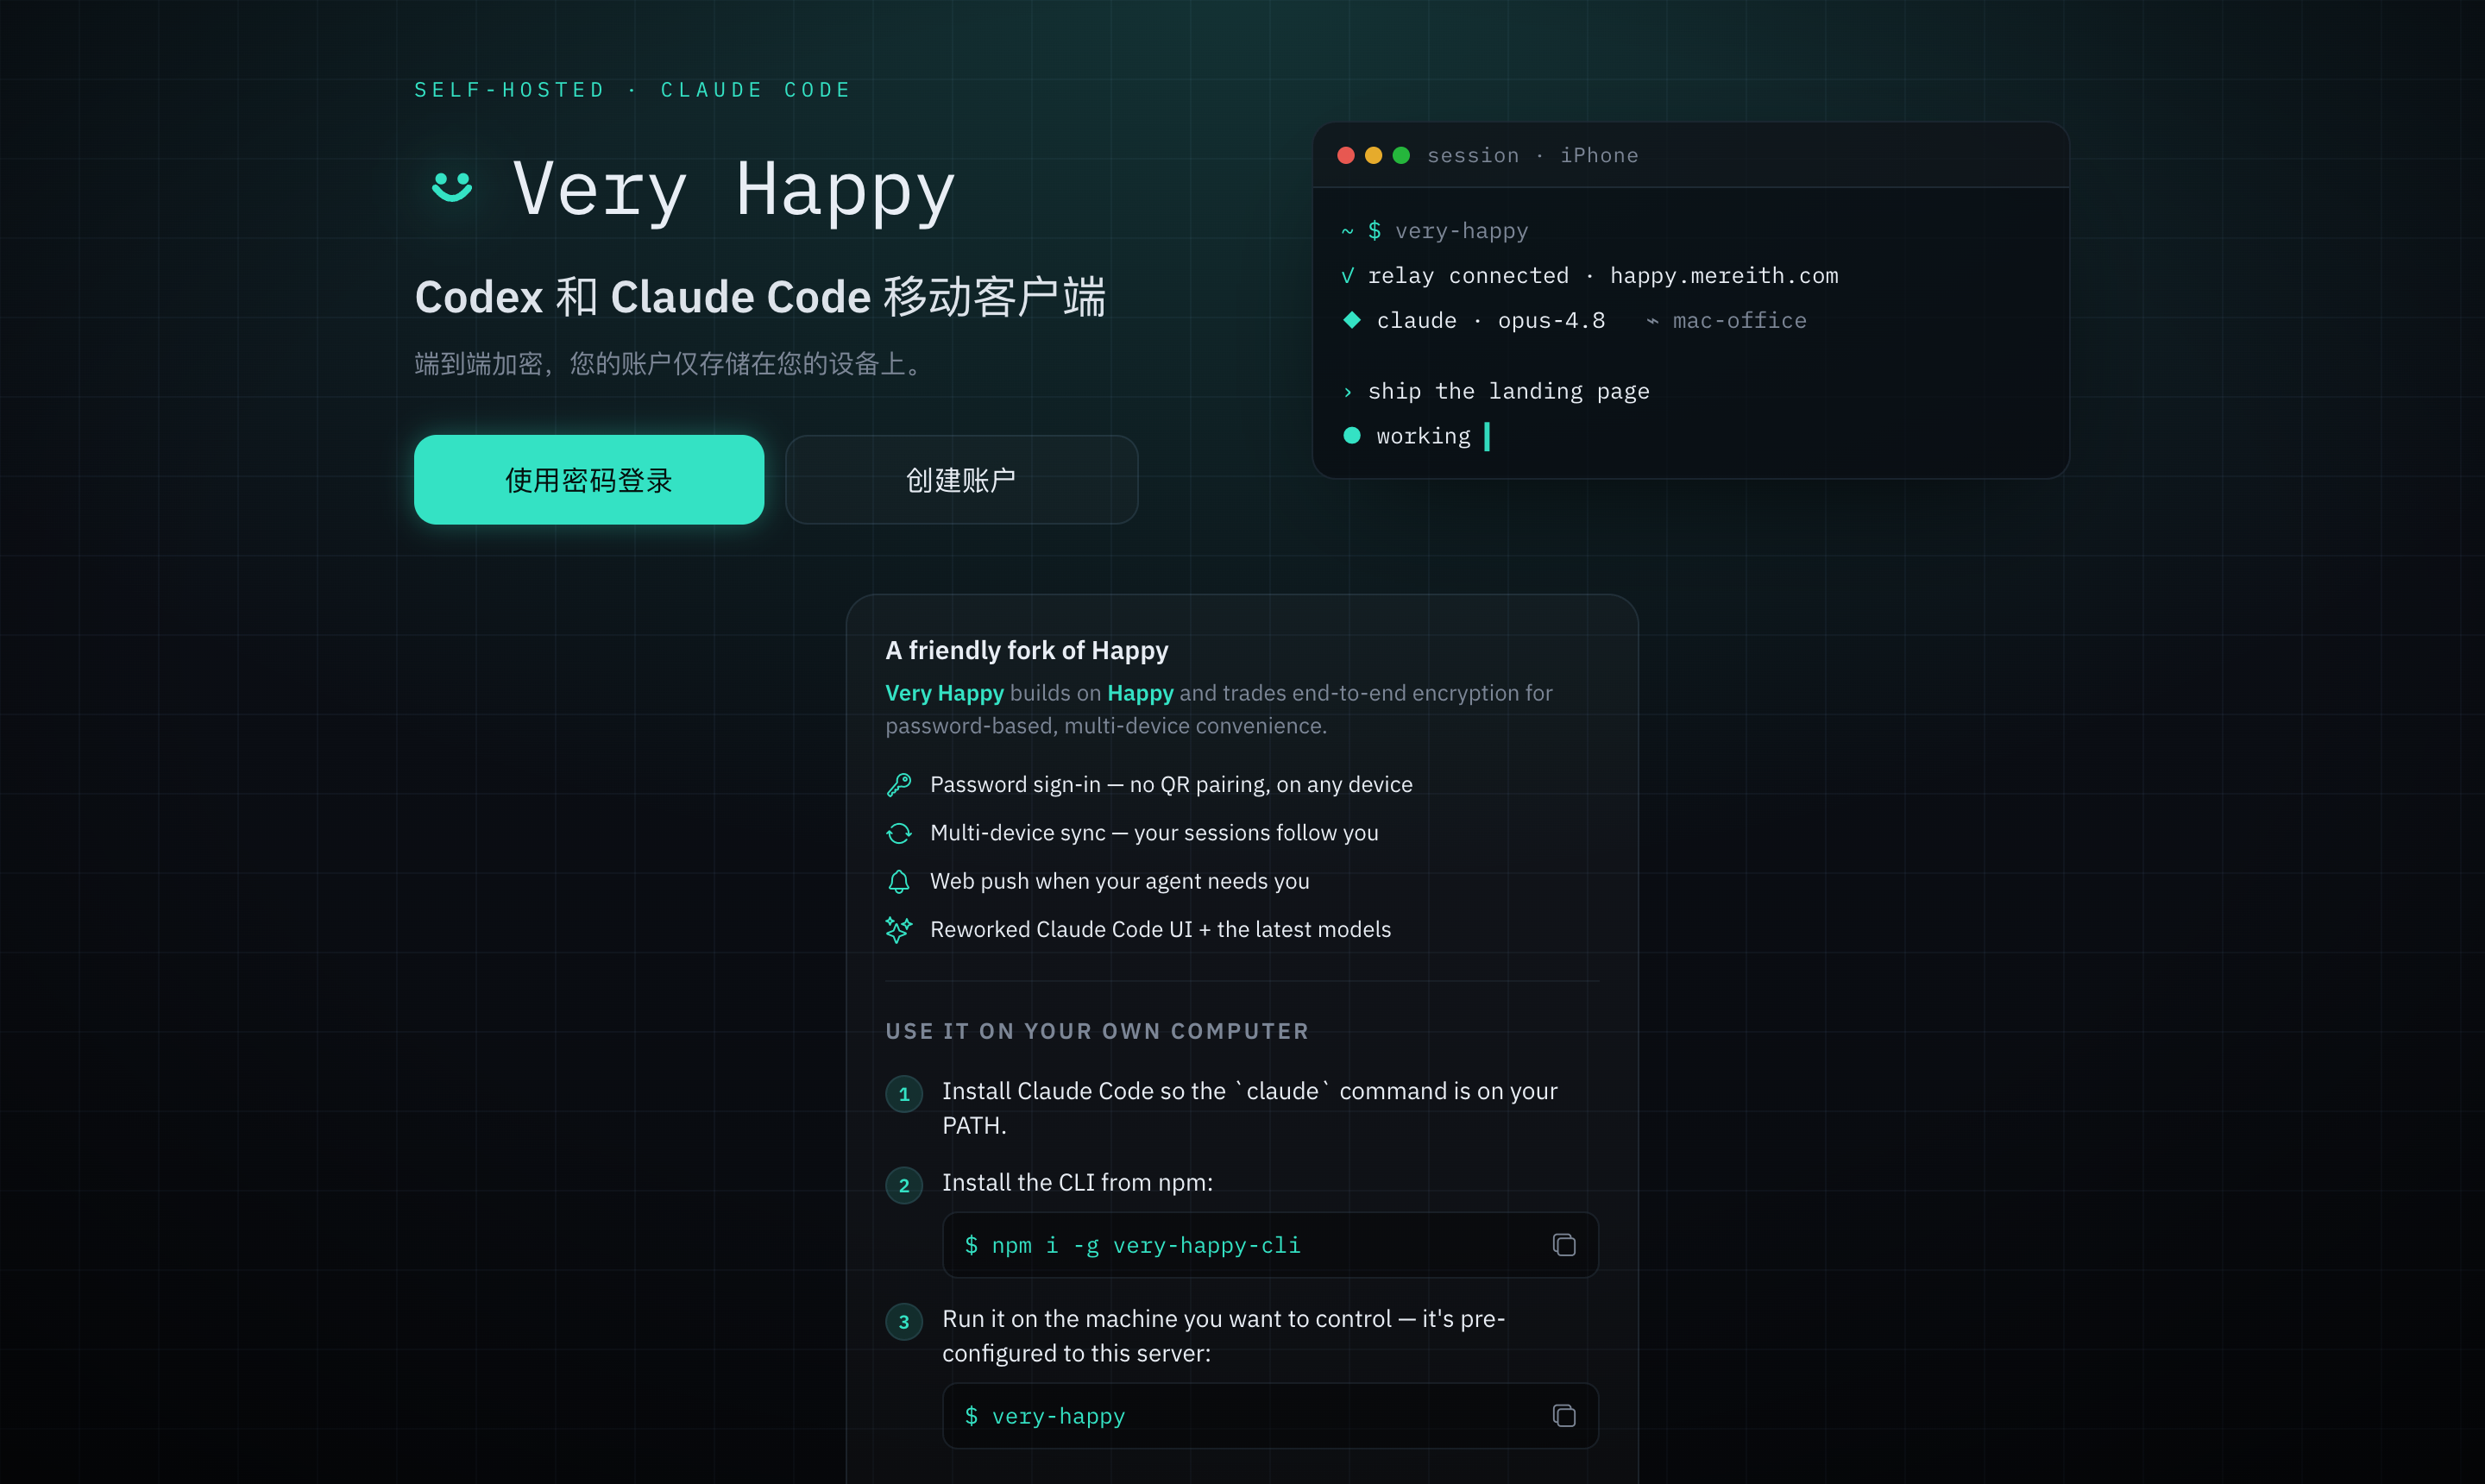
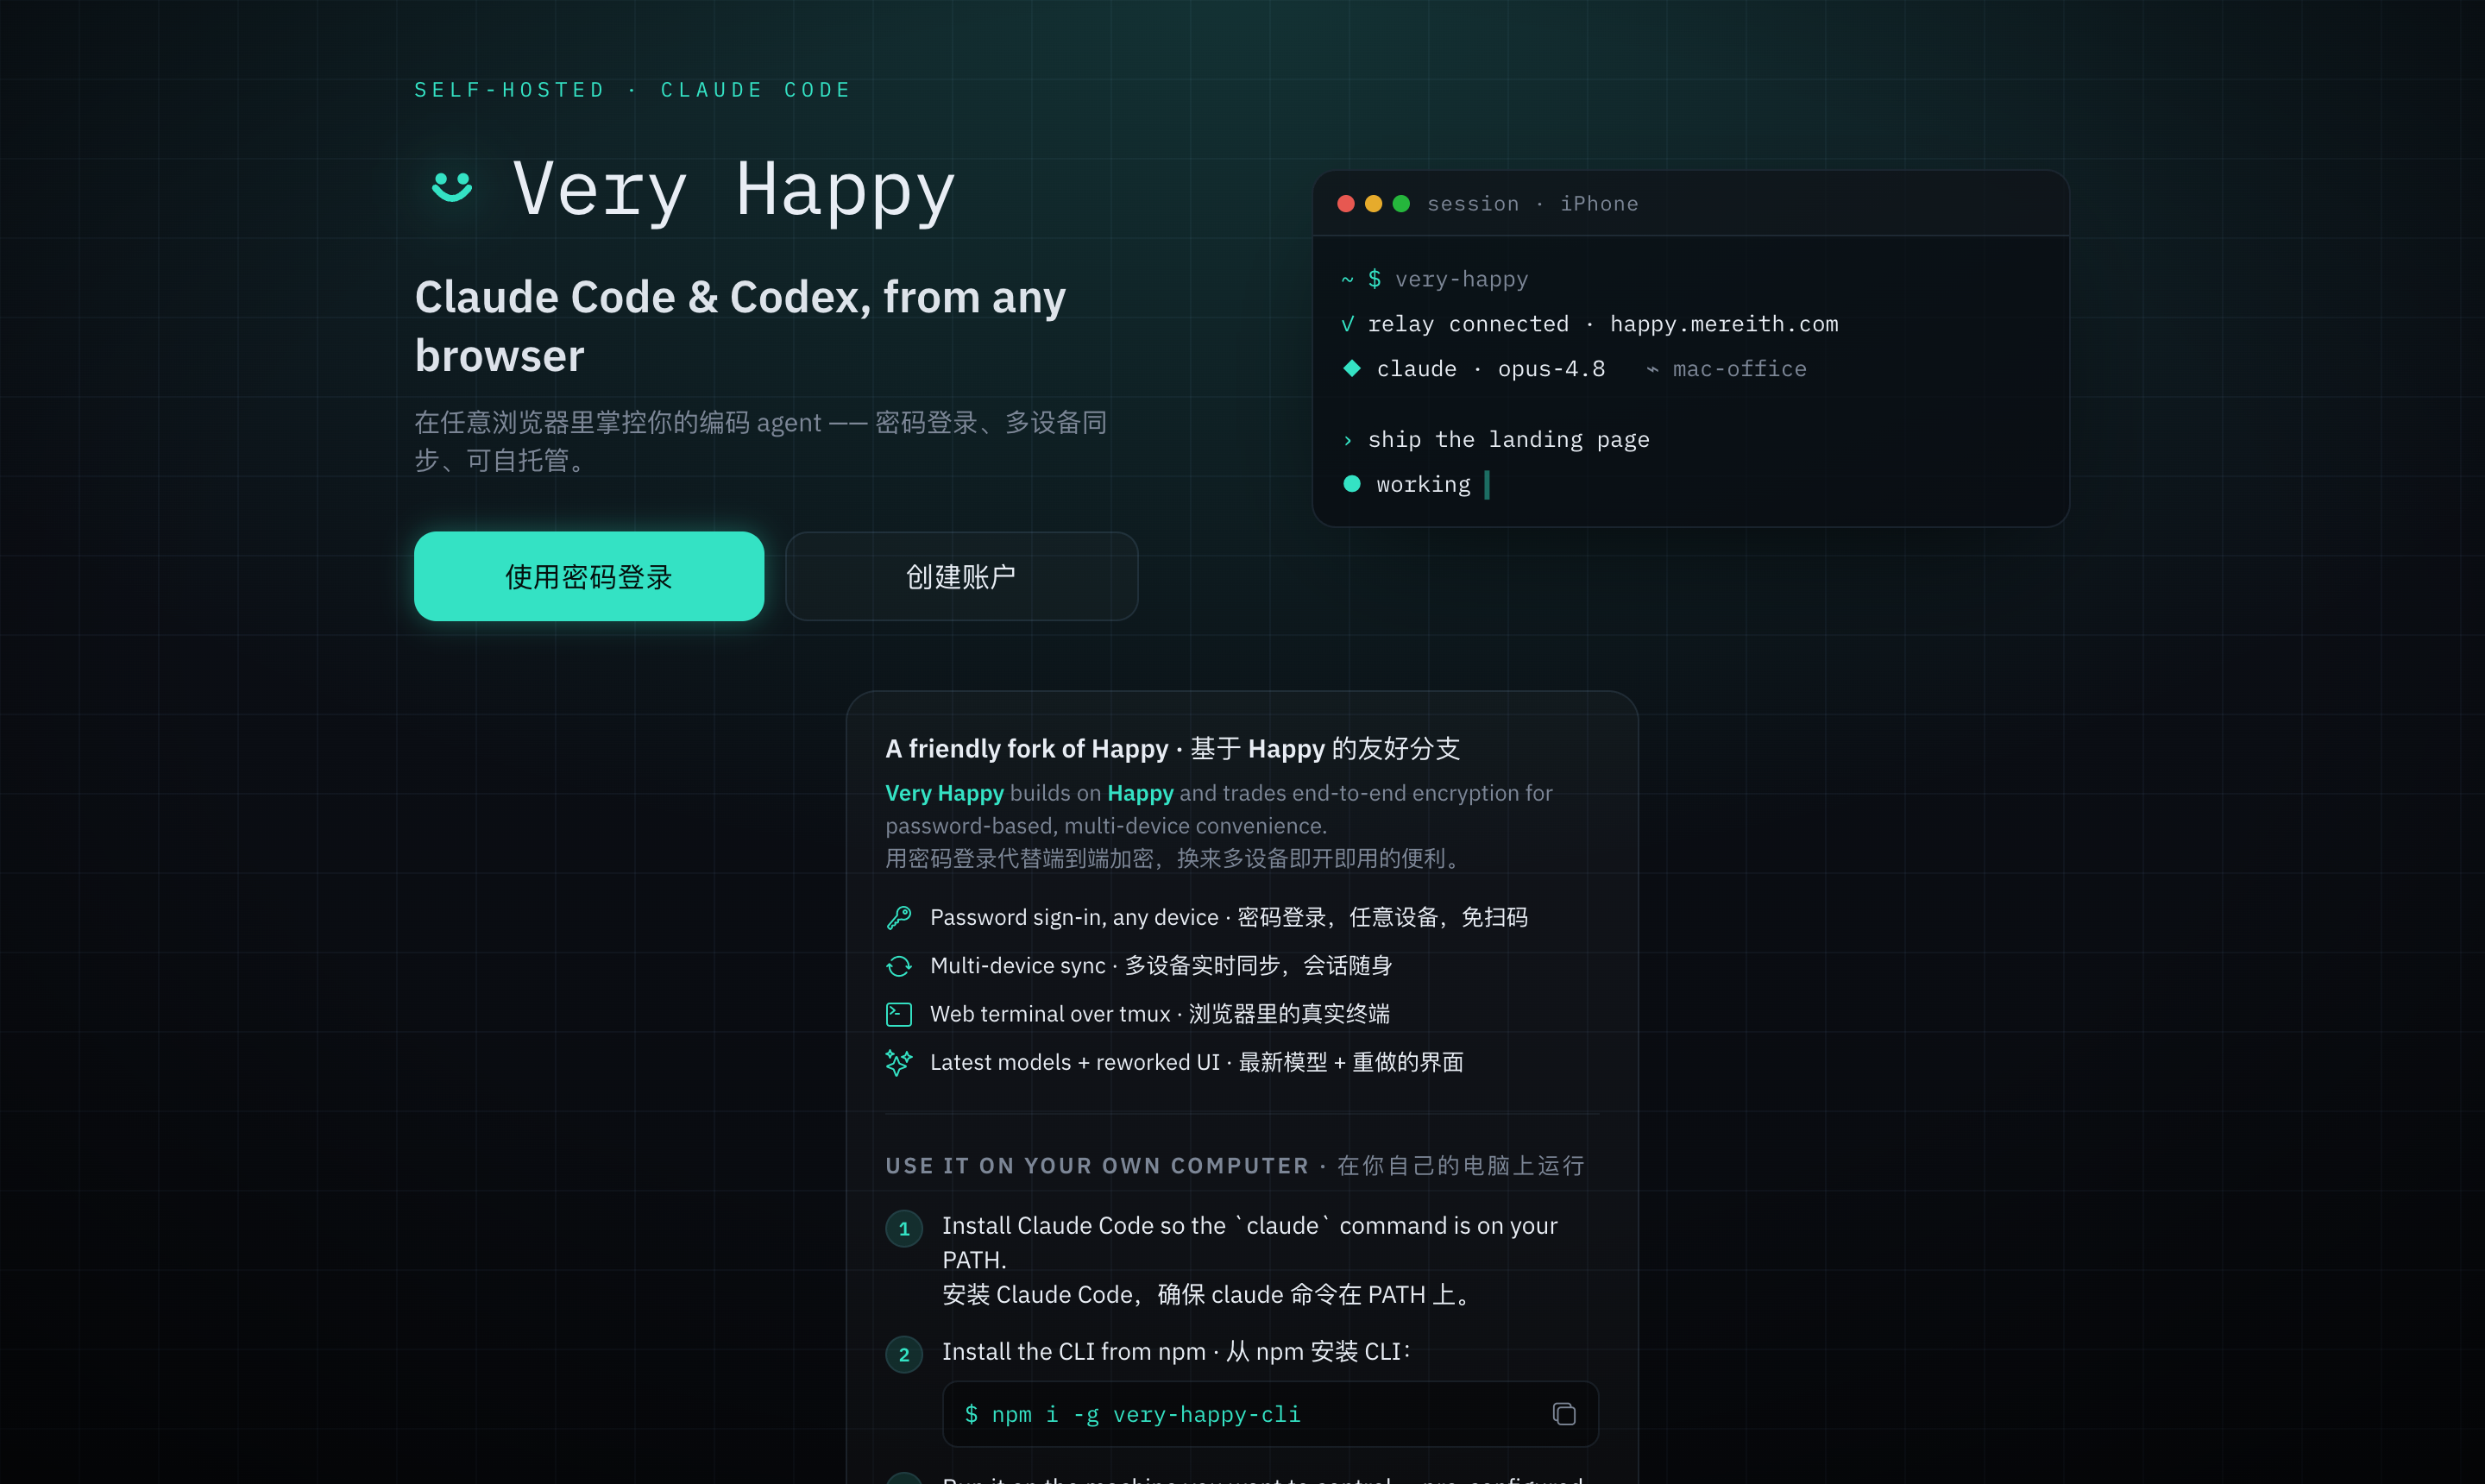
docs: 🌐 README 中英双语 + 换上干净的演示截图
- 全文加中文「中文说明」镜像段(简介/特性/安全提示/试用/自部署/原理)
- 截图换成无敏感数据的:双语 landing hero + Fibonacci 演示会话(状态条+
  agent 结果,clip 掉真实侧栏) + web 终端;删掉旧空态图

diff --git a/README.md b/README.md
@@ -11,17 +11,20 @@
 </h1>
 
 <h4 align="center">
-Sign in with a password, pick up your coding sessions on any device — no app store, no QR code.
+Sign in with a password, pick up your coding sessions on any device — no app store, no QR code.<br>
+用密码登录，在任意设备上接续你的编码会话 —— 无需应用商店、无需扫码。
 </h4>
+
+<p align="center"><b>English</b> · <a href="#中文说明">中文</a></p>
 
 ---
 
 **Very Happy** is a friendly fork of [slopus/happy](https://github.com/slopus/happy) (MIT) — a web + mobile client and relay that lets you watch and steer [Claude Code](https://www.anthropic.com/claude-code) from your phone or any browser. The upstream project is excellent; Very Happy reworks it around a different trade-off — **convenience over end-to-end encryption** — and adds a heavily polished web UI, a "Console" dark/light redesign, and an in-browser web terminal.
 
 <div align="center">
-  <img src="docs/screenshots/landing.png" width="82%" alt="Very Happy — sign in with a password and drive Claude Code from any browser">
+  <img src="docs/screenshots/landing.png" width="82%" alt="Very Happy — drive Claude Code & Codex from any browser">
   <br><br>
-  <img src="docs/screenshots/app.png" width="49%" alt="Pick up any session on any device">
+  <img src="docs/screenshots/conversation.png" width="49%" alt="A coding session with the machine·cwd·model status line">
   <img src="docs/screenshots/terminal.png" width="49%" alt="Open a real web terminal on any connected machine">
 </div>
 
@@ -101,5 +104,63 @@ On your computer you run `very-happy` instead of `claude`. When you take control
 ## Credits & license
 
 Very Happy is a fork of [**slopus/happy**](https://github.com/slopus/happy) — huge thanks to the Happy authors and contributors for the foundation. Licensed under the MIT License; see [LICENSE](LICENSE).
+
+---
+
+## 中文说明
+
+**Very Happy** 是 [slopus/happy](https://github.com/slopus/happy)（MIT）的一个友好分支 —— 一个 Web + 移动客户端及中继服务，让你从手机或任意浏览器里观看、接管 [Claude Code](https://www.anthropic.com/claude-code)。上游项目很棒；Very Happy 在它基础上做了一个不同的取舍 —— **以便利换取端到端加密** —— 并重做了 Web UI、加了「Console」明暗主题和浏览器内的 Web 终端。
+
+### 与 Happy 有什么不同
+
+- 🔑 **密码账号、免配对** —— 用用户名 + 密码创建账号，在任意设备登录。无需扫码、无需重新绑定，会话随身。
+- 🔁 **多设备同步** —— 笔记本上开始、手机上继续、浏览器里收尾，同一个会话即时同步。
+- 🌐 **Web 优先** —— 完全在浏览器里跑，可作为 PWA 添加到主屏，永远不用应用商店。
+- 🔔 **Web 推送通知** —— agent 需要授权或完成时通知你，即使标签页关着（iOS 16.4+ 装成 PWA）。
+- 🖥️ **Web 终端** —— 在任意已连接的机器上，直接在浏览器里开一个真实终端，跑 Claude Code 或任何命令。每个终端由独立的 `tmux` 会话支撑，本地也能 `tmux attach` 接同一个会话。
+- 🧠 **重做的会话界面** —— 内联思考、每轮的模型/用量/成本/耗时、可展开完整命令与输出的工具调用、自动会话标题（可手动改名）、文件侧栏，以及每个会话顶部的等宽**状态条**（机器 · cwd · 模型 · 连接）。
+- 🎨 **「Console」设计** —— 一致的明暗主题（「穿在身上的终端，而不是又一个聊天框」）：唯一的 teal 强调色只用于*在线/活跃*状态、对话与终端统一的扁平列表、大幅精简的设置层级。
+- ⚡ **最新模型** —— 升级到当前的 Claude Agent SDK，远程会话跑最新模型（如 Opus 4.8），而不是某个应用商店构建里固化的版本。
+- 🏠 **可自托管、可邀请码限流** —— 自带中继、用邀请码控制注册。
+
+> [!IMPORTANT]
+> **Very Happy 是「服务器可信」的，不是端到端加密。** 你的会话经服务器中继，服务器运营者能解密并读取其内容。这是为了密码登录、多设备同步而做的有意取舍。只在你信任的人运营的实例上注册，也只为信任你的人托管实例。若你需要真正的端到端加密，请用[上游 Happy](https://github.com/slopus/happy)。
+
+### 试用
+
+公开实例在 **[happy.mereith.com](https://happy.mereith.com)**，可以上去体验：打开它、注册账号，按下面的步骤跑起 CLI 后，你的机器就会出现。
+
+> [!WARNING]
+> 这个公开实例是个人 demo，**不是一项服务**。它是**服务器可信**的（运营者能读你的会话），账号和数据**随时可能被清空**，且**没有可用性保证**。**不要填入真实密钥或凭据，也不要把生产机器连上去。** 正式使用请**自部署**（见下），让数据不离开你掌控的基础设施。
+
+### 快速开始
+
+1. **安装 Claude Code**，确保 `claude` 命令在 `PATH` 上。
+2. 在你想控制的机器上**安装 CLI**：`npm install -g very-happy-cli`
+3. **运行**（已预设连到上面的公开 demo）：`very-happy`
+
+然后打开 Web 应用、注册账号，你的机器就会出现。
+
+### 自部署
+
+正式使用就跑你自己的中继，让会话不离开你掌控的设施：
+
+1. **服务端** —— `packages/happy-server` 是一个 Node + Postgres 中继，同时托管 Web 应用。配置好环境（数据库、签名密钥、可选邀请码）并部署在 TLS 后。
+2. **Web** —— 构建 `packages/happy-app` 的 Expo Web 应用，从中继（或任意静态托管）提供。
+3. **CLI / daemon** —— 把 CLI 指向你的中继，在每台要控制的机器上运行：`HAPPY_SERVER_URL=https://your-relay.example.com very-happy`
+
+发布/部署流程见 [`RELEASING.md`](RELEASING.md)。
+
+### 工作原理
+
+```
+Web 客户端 ──▶ 中继服务器 ──socket──▶ very-happy CLI 守护进程 ──spawn──▶ claude (Claude Code)
+```
+
+在你的电脑上用 `very-happy` 代替 `claude`。当你从手机或浏览器接管时，守护进程通过 Claude Agent SDK 以远程模式运行 Claude Code，把一切流式传回给你 —— 引擎、工具、skills、子 agent、hooks 和 MCP 都和真实 CLI 一致。
+
+### 致谢与许可
+
+Very Happy 是 [**slopus/happy**](https://github.com/slopus/happy) 的分支 —— 非常感谢 Happy 的作者与贡献者打下的基础。MIT 许可，见 [LICENSE](LICENSE)。
 </content>
 </invoke>